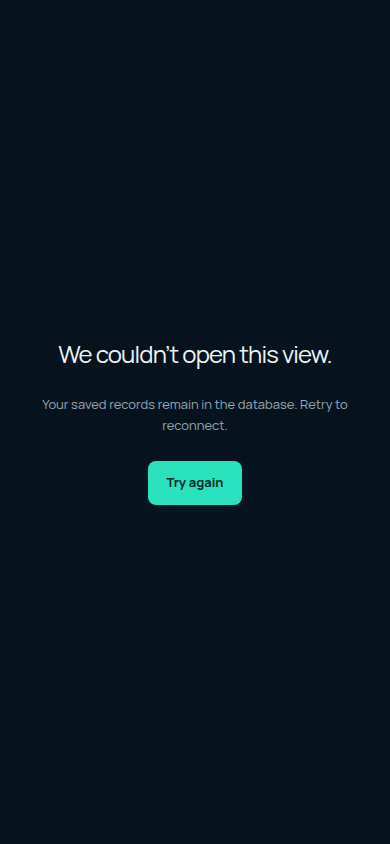
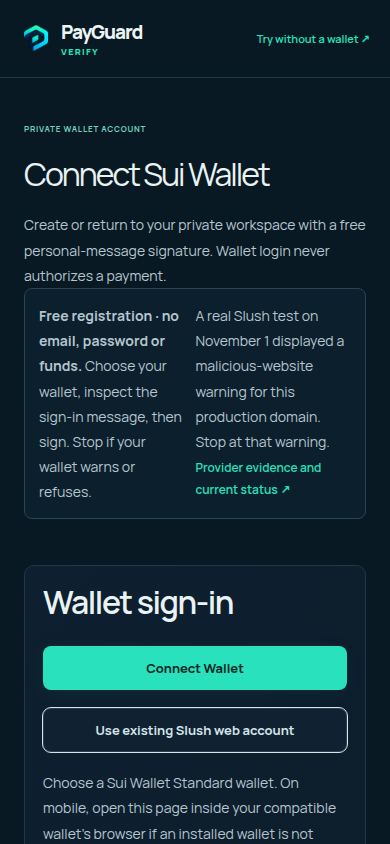
Verify mobile wallet controls and preserve transient capture diagnostics

diff --git a/tests/e2e/wallet-pause.spec.ts b/tests/e2e/wallet-pause.spec.ts
@@ -39,3 +39,28 @@ test('public wallet login is accessible independently of hosted financial signin
   await page.getByRole('link', { name: /Try without a wallet/ }).click();
   await expect(page).toHaveURL(/\/try$/);
 });
+
+test('wallet registration loads its real controls at 360, 390 and 430px without a recovery screen', async ({
+  page,
+}) => {
+  const failures: string[] = [];
+  page.on('pageerror', (error) => failures.push(error.name));
+  for (const width of [360, 390, 430]) {
+    await page.setViewportSize({ width, height: 844 });
+    await visit(page, '/connect');
+    await expect(
+      page.getByRole('heading', { name: 'Connect Sui Wallet', exact: true }),
+    ).toBeVisible();
+    await expect(page.getByRole('heading', { name: 'We couldn’t open this view.' })).toHaveCount(0);
+    const connect = page.getByRole('button', { name: 'Connect Wallet', exact: true });
+    await expect(connect).toBeEnabled();
+    await connect.click();
+    await expect(
+      page.getByRole('button', { name: 'Use existing Slush web account', exact: true }),
+    ).toBeVisible();
+    expect(await page.evaluate(() => document.documentElement.scrollWidth <= innerWidth + 1)).toBe(
+      true,
+    );
+  }
+  expect(failures).toEqual([]);
+});

diff --git a/tests/e2e/browser-helpers.ts b/tests/e2e/browser-helpers.ts
@@ -100,7 +100,10 @@ export async function visit(page: Page, url: string, options?: Parameters<Page['
       type: 'transport-retry',
       description: 'One read-only navigation retried after browser ERR_NETWORK_CHANGED.',
     });
-    // Retry the read directly. Error-page CDP targets may already have detached.
+    // Chromium may still be committing its own chrome-error navigation after
+    // reporting the transport reset. Let that finish before the single read retry.
+    // This does not retry an application error, signature, POST or provider action.
+    await page.waitForTimeout(300);
     return page.goto(url, options);
   }
 }

diff --git a/docs/TEST_RESULTS.md b/docs/TEST_RESULTS.md
@@ -8,7 +8,7 @@
 - [Read-only record comparison](evidence/nov02-record-preservation.json): original 32 memory identities unchanged; three published receipt identities/credits match. The old pre-release hash had only one receipt, so it is not used as a three-receipt content comparison baseline.
 - [Physical acceptance](evidence/nightly-physical-acceptance.json): owner confirms Nightly Production connection/free signature/private workspace. Slush warning reproduced and respected. Full returning-login, authoring, correction/recall, two-physical-wallet isolation and financial signing remain unverified physically; automated fixture coverage is separately identified.
 
-Production follow-up: **8/8 public browser tests passed**, zero skips/failures; **16 screenshots** at 100% zoom across 1440/360/390/430px with zero horizontal overflow. Three real receipts reopened twice, retaining exactly three settlement requests and receipts. Both 2:45 video exports passed complete bounded segment decoding with no video/audio errors, and contain an English subtitle stream. [Production evidence](evidence/nov02-production-smoke.json) · [video verification](demo/verification.json). A first unbounded video decode process terminated with exit 143; bounded checks covered the full duration successfully.
+Production follow-up: **9 distinct public browser cases passed** (eight initial cases plus a new mobile Connect case; final focused rerun 2/2), zero skips/failures; **16 screenshots** at 100% zoom across 1440/360/390/430px with zero horizontal overflow. Three real receipts reopened twice, retaining exactly three settlement requests and receipts. Both 2:45 video exports passed complete bounded segment decoding with no video/audio errors, and contain an English subtitle stream. [Production evidence](evidence/nov02-production-smoke.json) · [video verification](demo/verification.json). A first unbounded video decode process terminated with exit 143; bounded checks covered the full duration successfully.
 
 Initial focused tests exposed canonical SDK type-tag normalization differences and obsolete address-only expectations; these were corrected before the passing full run. A first read-only probe hit Tatum rate limiting; conservative paced reads then succeeded. No financial operation was retried. The official narration service returned no audio for some clips; only unfinished clips were retried. No finished video is published without owner approval.
 
@@ -377,3 +377,5 @@ The final production password recheck again returned old **401 INVALID_LOGIN**, 
 The expanded Mainnet payment panel passed after its mobile fix. A later d1649da run completed the judge workflow and live providers but exposed two further waits: initial public snapshot rendering, and the human-verification result. Tests now await actual responses rather than a toast alone. The verification component binds its context to current invoice, workspace mode, trust revision and local edits, disabling attestation while fresh data is pending. The regression deliberately holds the real context request and verifies that the button cannot attest an old version.
 
 JavaScript-disabled judge checks now use a dedicated browser; three repeated public judge files passed 9/9. The controlled [hydration probe](evidence/judge-hydration-diagnostic.json) independently observed a Chromium network reset between contexts. Every test file explicitly registers metadata-only failure diagnostics for pending resources/statuses; no private DOM, headers or bodies are captured. The latest local full run passed 14 with three intentional skips. Earlier failed runs remain distinct from the final hosted rerun.
+
+Final screenshot review found an initial 390px Connect recovery screen that the HTTP/overflow-only capture script missed. Its cause is unproven because the original console log was absent. Four new independent sessions and the new three-width Connect test passed. A subsequent focused rerun had one observed Chromium `ERR_NETWORK_CHANGED` / racing error-page navigation failure; a 300ms settle before the helper's existing single read retry resolved that harness race, and the final focused run passed 2/2. No application/provider warning was suppressed, and no financial request was retried. The failed screenshot is preserved separately; mobile screenshots were replaced only after real heading/Connect controls and zero page errors were asserted. [Complete diagnostic ledger](evidence/nov02-connect-mobile.json).

diff --git a/docs/RELEASE_STATUS.md b/docs/RELEASE_STATUS.md
@@ -1,6 +1,6 @@
 # November 2 Production and recording handoff
 
-Checkout source `5f49f5ea02b6d4e9aaaa1cb6e7c7bcdc06b9ac5d` is Vercel Ready. Eight actual public Production browser checks passed; 16 100%-zoom desktop/mobile screenshots show no horizontal overflow. All three receipts reopened twice, with receipt and settlement-submission counts unchanged at three. Final full receipt-content and memory-identity hashes match this recovery's three-receipt baseline. [Production checks](evidence/nov02-production-smoke.json) · [receipt recovery](evidence/nov02-production-receipt-reopen.json) · [screenshots](screenshots/nov02-release/manifest.json).
+Checkout source `5f49f5ea02b6d4e9aaaa1cb6e7c7bcdc06b9ac5d` is Vercel Ready. Nine distinct public Production browser cases passed, including the final targeted mobile Connect rerun; 16 100%-zoom desktop/mobile screenshots show no horizontal overflow. All three receipts reopened twice, with receipt and settlement-submission counts unchanged at three. Final full receipt-content and memory-identity hashes match this recovery's three-receipt baseline. [Production checks](evidence/nov02-production-smoke.json) · [receipt recovery](evidence/nov02-production-receipt-reopen.json) · [screenshots](screenshots/nov02-release/manifest.json).
 
 The official 2:45 video review cut is rendered in 3840×2160 and 1920×1080 at 25 fps, from actual native-4K browser footage. Narration, captions and provenance are in the [review package](demo/README.md); MP4s remain ignored local artifacts. Publication requires owner review and an approved public host URL. No fourth payment, additional memory or submission-form write occurred.
 
